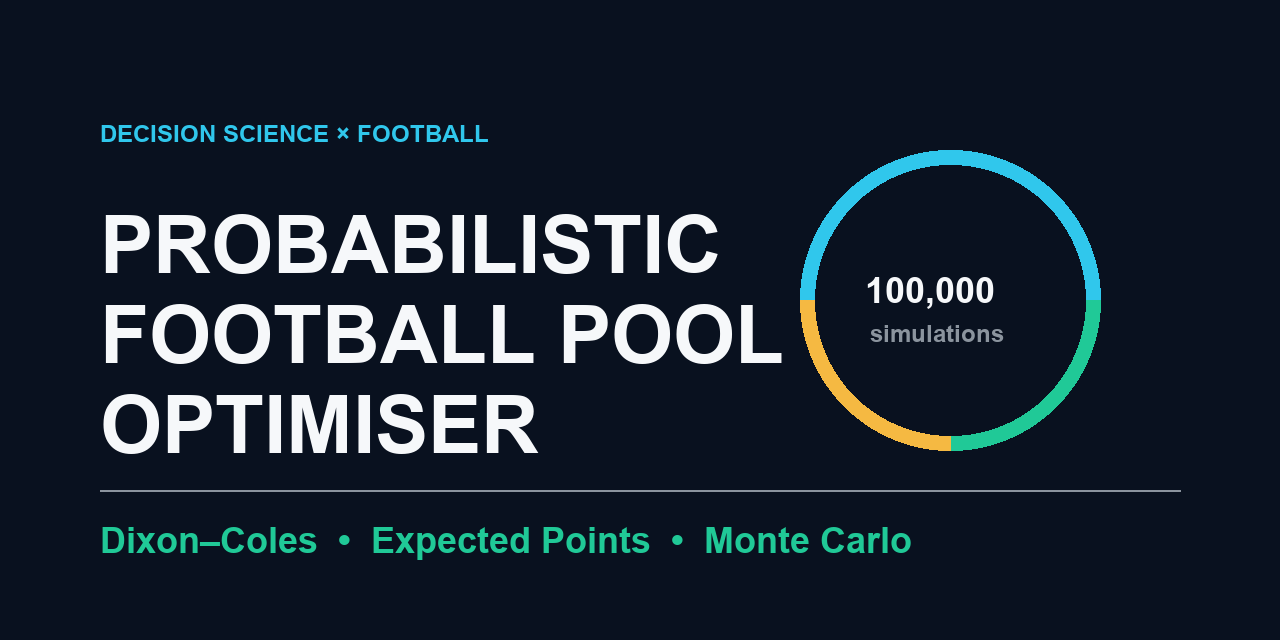
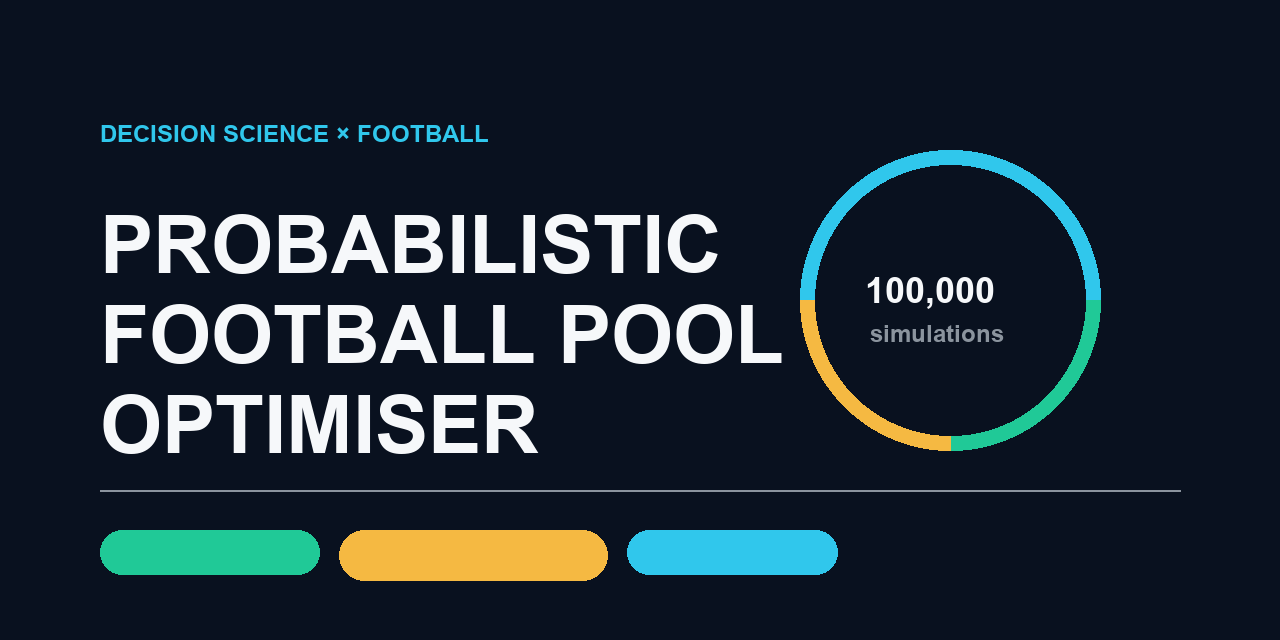
style: apply UI pill styling to social preview technologies

Changed region(s): [[0.0625, 0.8125, 0.7188, 0.9062]]

diff --git a/scripts/build_assets.py b/scripts/build_assets.py
@@ -62,7 +62,7 @@ def generate_svg(filename, is_dark):
 def generate_social_preview(filename):
     # 1280x640 PNG
     width, height = 1280, 640
-    img = Image.new("RGB", (width, height), NAVY)
+    img = Image.new("RGBA", (width, height), NAVY)
     draw = ImageDraw.Draw(img)
 
     # Try to load a nice font, fallback to default
@@ -71,10 +71,12 @@ def generate_social_preview(filename):
         title_font = ImageFont.truetype("arialbd.ttf", 80)
         subtitle_font = ImageFont.truetype("arialbd.ttf", 36)
         label_font = ImageFont.truetype("arialbd.ttf", 24)
+        pill_font = ImageFont.truetype("arialbd.ttf", 28)
     except Exception:
         title_font = ImageFont.load_default()
         subtitle_font = ImageFont.load_default()
         label_font = ImageFont.load_default()
+        pill_font = ImageFont.load_default()
 
     # Draw label
     draw.text((100, 120), "DECISION SCIENCE × FOOTBALL", fill=CYAN, font=label_font)
@@ -87,13 +89,36 @@ def generate_social_preview(filename):
     # Draw separator
     draw.line((100, 490, 1180, 490), fill=SLATE, width=2)
 
-    # Draw footer pills / text
-    draw.text(
-        (100, 520),
-        "Dixon–Coles  •  Expected Points  •  Monte Carlo",
-        fill=GREEN,
-        font=subtitle_font,
-    )
+    # Draw footer pills
+    pills = [
+        ("Dixon–Coles", GREEN),
+        ("Expected Points", GOLD),
+        ("Monte Carlo", CYAN),
+    ]
+
+    x = 100
+    y = 530
+    padding_x = 24
+    padding_y = 12
+
+    for text, color in pills:
+        bg_color = color + "1A"
+        
+        # Calculate text size
+        bbox = draw.textbbox((0, 0), text, font=pill_font)
+        text_w = bbox[2] - bbox[0]
+        text_h = bbox[3] - bbox[1]
+        
+        rect_w = text_w + padding_x * 2
+        rect_h = text_h + padding_y * 2
+        
+        # Draw pill
+        draw.rounded_rectangle([x, y, x + rect_w, y + rect_h], radius=rect_h//2, fill=bg_color)
+        
+        # Draw text inside pill (adjusting y slightly for visual centering)
+        draw.text((x + padding_x, y + padding_y - 2), text, fill=color, font=pill_font)
+        
+        x += rect_w + 20
 
     # Draw some decorative abstract chart on the right
     draw.arc((800, 150, 1100, 450), start=180, end=360, fill=CYAN, width=15)
@@ -104,6 +129,7 @@ def generate_social_preview(filename):
     draw.text((865, 270), "100,000", fill=OFF_WHITE, font=subtitle_font)
     draw.text((870, 320), "simulations", fill=SLATE, font=label_font)
 
+    img = img.convert("RGB")
     img.save(filename)
 
 
